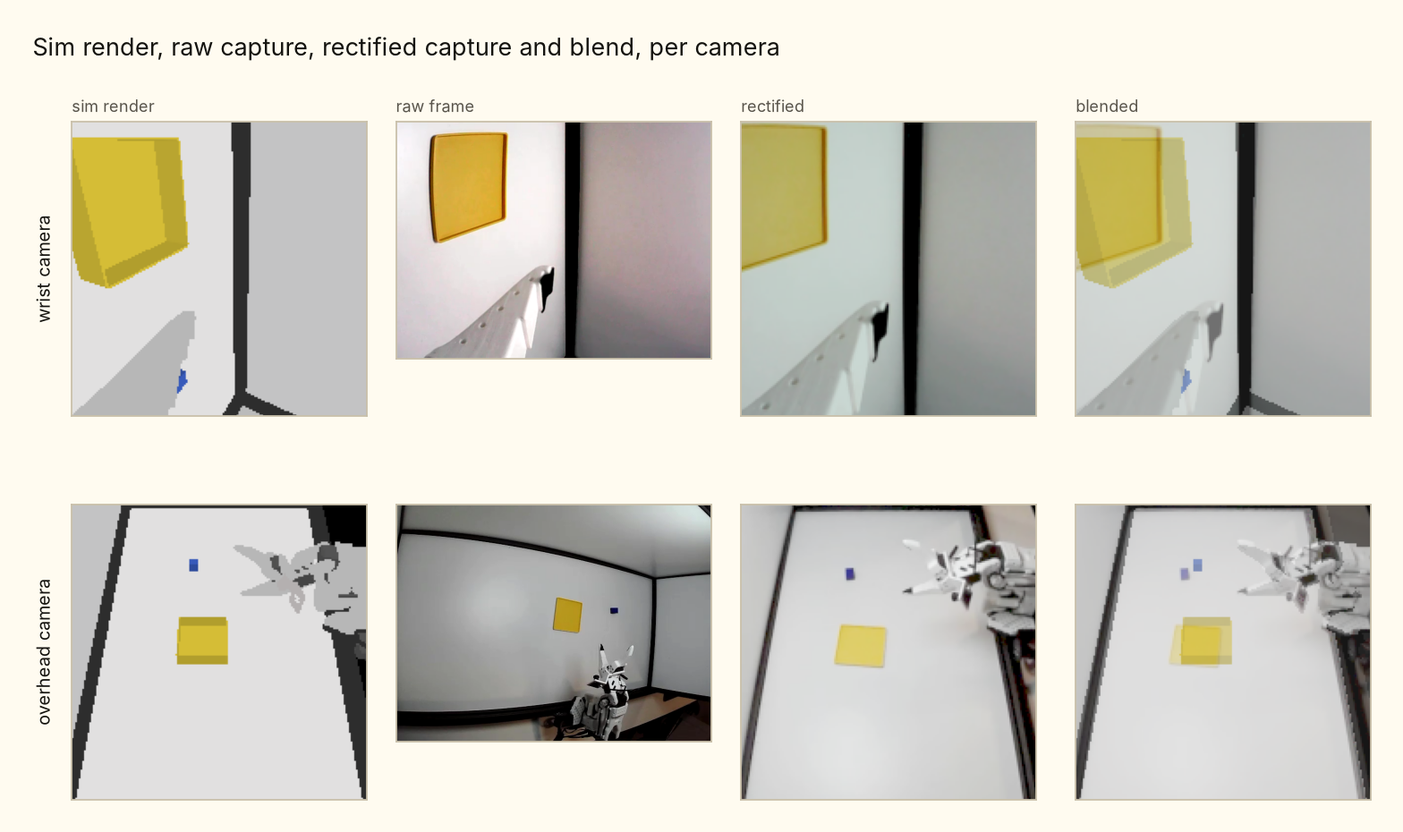
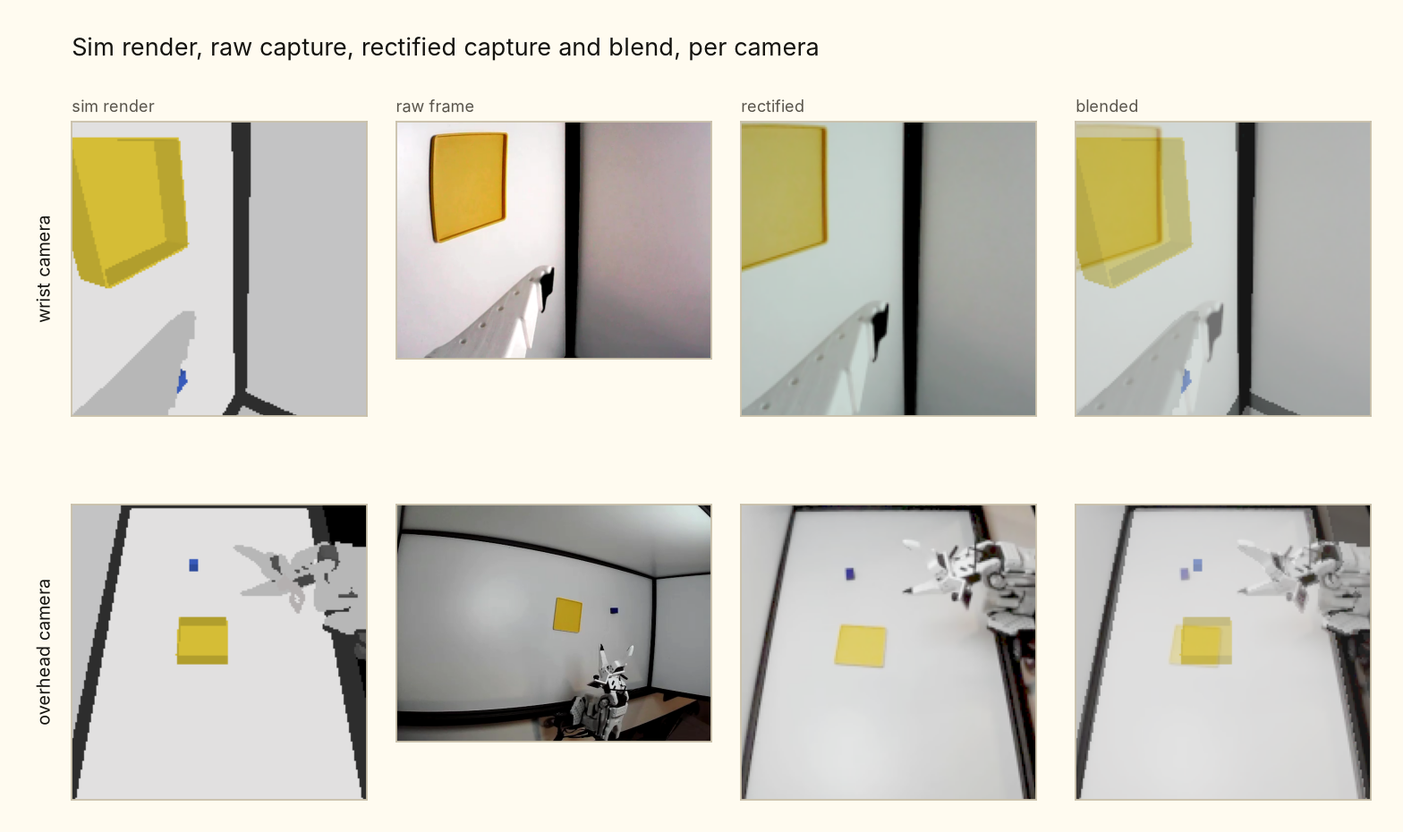
blog: reward stages as a table, wrist-camera DINOv2 figure, single-panel fig1
Reward section now enumerates the five stages with their condition and value, states the
predicates it reads, and says the return is the normalized discounted sum rather than a score for
finishing. Spells out d against e, since "released over the bin" and "success" are easy to conflate
and only the second requires the cube to have landed.

fig8 is fig7 for the wrist camera, through the same code path (fig7.main takes the camera). Its own
figure rather than a third row: the overhead view shows the backbone agreeing about a scene, the
wrist view shows it agreeing about the tool.

fig1 loses its second panel. The five zero-success runs are a different claim, and five flat lines
at zero are weaker than the sentence that states it.

Titles align to the leftmost panel's left edge rather than the leftmost ink, so they line up with
the picture instead of the y-axis label.

Changed region(s): [[0.0312, 0.0312, 0.5938, 0.0935]]

diff --git a/blog-viz/fig1_encoder_curves.py b/blog-viz/fig1_encoder_curves.py
@@ -1,9 +1,11 @@
-"""The headline result: what the vision encoder is worth, and what the recipe was worth.
+"""What the vision encoder is worth: four of them under one recipe, 12M steps each.
 
-Left panel, the four encoders under the current recipe, all 12M steps, same task, same reward,
-same replay retention. Right panel, the same squint CNN before the reward ladder gained its
-jaw-closing ramp and the horizon came down to 200 steps: four runs, three of them separate seeds,
-none of which ever placed the cube.
+Same task, same reward, same replay retention, same step budget, so the only thing varying is
+what the policy is handed instead of pixels.
+
+The squint CNN's five zero-success runs under the previous recipe used to be a second panel here.
+Dropped: that is a different claim, and five flat lines at zero is weaker evidence than the one
+sentence of prose that states it.
 
 Reads raw/wandb_runs.json (see fetch_runs.py). Needs no simulator.
 """
@@ -31,7 +33,6 @@ CURRENT = (
     ("v5-dino-global-cls", "dino_global_cls", "dino_global (cls)"),
     ("v4-squint", "squint", "squint CNN"),
 )
-PREVIOUS = ("v1-squint", "v2-squint-s1", "v2-squint-s2", "v2-squint-s3", "v3-squint")
 
 
 def series(name):
@@ -49,12 +50,10 @@ def rolling(y, n=SMOOTH):
 
 def main():
     style.apply()
-    fig = plt.figure(figsize=(12.6, 4.8))
-    left, right = 0.075, 0.985
-    gs = fig.add_gridspec(1, 2, width_ratios=[1.55, 1.0], wspace=0.16,
-                          left=left, right=right, bottom=0.15,
-                          top=0.97)
-    ax_a, ax_b = fig.add_subplot(gs[0]), fig.add_subplot(gs[1])
+    fig = plt.figure(figsize=(9.6, 5.0))
+    left, right = 0.085, 0.985
+    gs = fig.add_gridspec(1, 1, left=left, right=right, bottom=0.14, top=0.97)
+    ax_a = fig.add_subplot(gs[0])
 
     # ---- Panel A: the four encoders, current recipe --------------------------------------
     ends = []
@@ -88,29 +87,14 @@ def main():
         ax_a.text(xe + 0.28, y, label, color=color, fontsize=style.T_TICK,
                   va="center", ha="left")
 
-    # ---- Panel B: the CNN either side of the recipe change --------------------------------
-    for run in PREVIOUS:
-        x, y = series(run)
-        ax_b.plot(x, y, color=style.MUTED, lw=1.8, alpha=0.6, zorder=2)
-    x, y = series("v4-squint")
-    ax_b.plot(x, rolling(y), color=style.ENCODER_COLOR["squint"], lw=2.0, zorder=3,
-              path_effects=style.RELIEF[style.GOLD])
-    ax_b.text(12.2, rolling(y)[-1], "after", color=style.GOLD, fontsize=style.T_TICK,
-              va="center", ha="left")
-    ax_b.text(9.2, 0.045, "5 runs, previous recipe", color=style.MUTED,
-              fontsize=style.T_TICK, ha="center", va="bottom")
-
-    for ax, xmax in ((ax_a, 15.0), (ax_b, 14.2)):
-        style.clean_axes(ax)
-        ax.set_xlim(-0.3, xmax)
-        ax.set_ylim(-0.03, 1.06)
-        ax.set_xticks([0, 3, 6, 9, 12])
-        ax.set_xlabel("environment steps (millions)")
+    style.clean_axes(ax_a)
+    ax_a.set_xlim(-0.3, 15.6)
+    ax_a.set_ylim(-0.03, 1.06)
+    ax_a.set_xticks([0, 3, 6, 9, 12])
+    ax_a.set_xlabel("environment steps (millions)")
     ax_a.set_ylabel("success rate")
     ax_a.set_yticks([0, 0.25, 0.5, 0.75, 1.0])
     ax_a.set_yticklabels(["0", "0.25", "0.50", "0.75", "1.00"])
-    ax_b.set_yticks([0, 0.25, 0.5, 0.75, 1.0])
-    ax_b.set_yticklabels([])
 
     style.place_title(fig, "Evaluation success rate vs environment steps, by vision encoder")
     return fig

diff --git a/blog-viz/fig7_dino_features.py b/blog-viz/fig7_dino_features.py
@@ -11,6 +11,7 @@ robot.
 
     uv run --project ../rl/calibrate python fig7_dino_features.py
 
+`main` takes the real camera track, so fig8 renders the wrist view through this same code.
 Pulls the backbone from torch.hub on first use, so the first run needs network.
 """
 from __future__ import annotations
@@ -36,7 +37,7 @@ def tokens(rgb, torch):
     return tok[0, : GRID * GRID].float().numpy()
 
 
-def main():
+def main(real_cam="overhead_camera", title=None):
     import torch
 
     ref = sc.reference()
@@ -56,10 +57,12 @@ def main():
     if len(found) == 2:
         sc.place_objects(u, found["blue"], found["yellow"])
         sc.set_qpos(u, ref["sim_qpos"])
-    over_sim = sc.sim_views(u)["overhead_camera"]
+    views = sc.sim_views(u)
+    sim = views[sc.REAL_TO_SIM_CAM[real_cam]]
+    real = sc.rectify_real(real_cam, RES, maps=maps)
     env.close()
 
-    t_sim, t_real = tokens(over_sim, torch), tokens(over_real, torch)
+    t_sim, t_real = tokens(sim, torch), tokens(real, torch)
 
     # One PCA over both, each frame mean-centred first so the constant sim-vs-real offset does not
     # eat the leading component. What is left is structure the two share, or do not.
@@ -85,7 +88,7 @@ def main():
                           top=0.97)
 
 
-    rows = [("simulation", over_sim, pca_sim), ("real, rectified", over_real, pca_real)]
+    rows = [("simulation", sim, pca_sim), ("real, rectified", real, pca_real)]
     for r, (label, img, pca) in enumerate(rows):
         ax = fig.add_subplot(gs[r, 0])
         ax.imshow(img)
@@ -112,7 +115,8 @@ def main():
         if r == 0:
             style.panel_title(ax, "mean-pooled to one vector", color=style.INK)
 
-    style.place_title(fig, "DINOv2 patch tokens for sim and real frames, shared PCA projection")
+    style.place_title(fig, title or
+                      f"DINOv2 patch tokens, {sc.CAMERA_TITLE[real_cam]}, shared PCA projection")
     return fig
 
 

diff --git a/blog-viz/style.py b/blog-viz/style.py
@@ -153,12 +153,17 @@ def _ink_bounds(fig, artists=None):
 
 
 def place_title(fig, text, *, gap_in=0.30):
-    """Put the title above everything, flush with the leftmost ink on the page.
+    """Put the title above everything, flush with the left edge of the leftmost panel.
+
+    Aligned to the panel BOX, not to the leftmost ink: the y-axis label and tick labels stick out
+    further left, and hanging the title off those leaves it floating clear of the picture it
+    belongs to. The panel edge is the line the eye actually reads as the figure's left edge.
 
     Call it LAST, once every axes and label exists. Regular weight: at this size on a cream page
     the title already reads as the title, and bold makes it shout over the figure it introduces.
     """
-    x0, _, y1 = _ink_bounds(fig)
+    _, _, y1 = _ink_bounds(fig)
+    x0 = min(ax.get_position().x0 for ax in fig.axes)
     fig.text(x0, y1 + gap_in / fig.get_figheight(), text,
              ha="left", va="bottom", fontsize=T_TITLE, color=INK)
 

diff --git a/blog-viz/fig8_dino_features_wrist.py b/blog-viz/fig8_dino_features_wrist.py
@@ -1,0 +1,15 @@
+"""fig7 for the wrist camera, through the same code path.
+
+Its own figure rather than a third row on fig7, because the two are different evidence. The
+overhead view shows the backbone agreeing about a scene; the wrist view is almost entirely
+gripper, so it shows the backbone agreeing about the tool, which is what the grasp depends on.
+
+    uv run --project ../rl/calibrate python fig8_dino_features_wrist.py
+"""
+from __future__ import annotations
+
+import fig7_dino_features as fig7
+import sim_common as sc
+
+if __name__ == "__main__":
+    sc.save(fig7.main("arm_camera"), "fig8_dino_features_wrist.png")

diff --git a/draft.md b/draft.md
@@ -62,7 +62,7 @@ $\phi$ is the encoder's preprocessing, and the choice of it is most of this arti
 
 $\tilde{\mathbf{q}}_t$ is the 7 measured joint positions, $\mathcal{N}(0, \sigma_q^2)$ with $\sigma_q = 5°$ per joint to model real encoders.
 
-$\mathbf{q}^{\text{tgt}}_t$ is the running controller target, and it is why proprio is 14 and not 7. the controller is positional and the arm lags it, so $\tilde{\mathbf{q}}_t$ alone is ambiguous: identical poses under different targets evolve differently, and the process is not Markov in the measurement. deploy integrates the same target, so the semantics transfer exactly.
+$\mathbf{q}^{\text{tgt}}_t$ is the running controller target. the controller is positional, but command actions are not instantaneous, so $\tilde{\mathbf{q}}_t$ alone is ambiguous, so we need to model control delay as well, especially since our action space is delta.
 
 that layout is a contract, not a convention. the 14 fields and their order are measured off the live training env and written into the checkpoint, so deploy assembles its vector from that record instead of assuming a width.
 
@@ -76,61 +76,73 @@ note that a delta per control period is a velocity. that matters later.
 
 ### the reward
 
-the reward is a monotonic staircase. each stage is a fixed rung plus a bounded amount of shaping, and every stage's maximum sits below the next stage's floor, so a higher stage overrides the lower one instead of adding to it.
+the reward is a staircase over five mutually exclusive stages. each stage has a fixed rung, plus at most a bounded amount of shaping on top, and the rungs are spaced so that a stage's maximum still sits below the next stage's rung, which means a higher stage always overrides the one below it instead of adding to it.
 
-$$\text{reach } [0, 1.5] \;<\; \text{grasped } [2, 3] \;<\; \text{holding } [4, 5] \;<\; \text{released } 6 \;<\; \text{success } 10$$
+first the predicates, all read off the sim state:
+
+- $\mathrm{G}$: the cube is grasped, both jaws in contact and closing on it
+- $\mathrm{B}$: the cube is horizontally inside the bin's 96 mm opening, $|p^{x}_{\text{item}} - p^{x}_{\text{bin}}| < 0.048$ and likewise in $y$
+- $\mathrm{T}$: the robot is touching the cube
+- $\mathrm{I}$: the cube is *in* the bin, $\mathrm{B}$ and its lowest corner within 5 mm of the bin floor
+- $\Sigma = \mathrm{I} \wedge \|\dot p_{\text{item}}\| \le 0.02 \wedge \neg\mathrm{T} \wedge \text{robot static} \wedge \neg\text{touching the bin}$
+
+and the distances: $d_{xy}$ and $d_z$ from the tool centre to the cube, $d_g = \|g - p_{\text{item}}\|$ from the cube to the drop point $g$, and $o \in [0,1]$ for how far the jaw is open.
+
+| stage | condition | reward |
+| --- | --- | --- |
+| a. reach | otherwise | $r_{\text{reach}} \in [0, 1.5]$ |
+| b. grasped | $\mathrm{G} \wedge \neg\mathrm{B}$ | $2 + \big(1 - \tanh(5 d_g)\big) \in [2, 3]$ |
+| c. holding over the bin | $\mathrm{B} \wedge \mathrm{T}$ | $4 + o \in [4, 5]$ |
+| d. released over the bin | $\mathrm{B} \wedge \neg\mathrm{T}$ | $6$ |
+| e. success | $\Sigma$ | $10$ |
+
+$$r_{\text{reach}} = \underbrace{0.5\big(1 - \tanh(5\,d_{xy})\big)}_{\text{align over the cube}} \;+\; \mathbb{1}[\,d_{xy} < 0.03\,]\underbrace{0.5\big(1 - \tanh(5\,d_z)\big)}_{\text{then descend}} \;+\; \mathbb{1}[\,d_{xy} < 0.03 \,\wedge\, d_z < 0.02\,]\underbrace{0.5\,(1 - o)}_{\text{then close}}$$
+
+the per-step reward is normalized by the maximum, $\hat r_t = r_t / 10$, and what the policy maximizes is the discounted sum over the episode, $\sum_t \gamma^t \hat r_t$ at $\gamma = 0.9$. so the ladder is a rate, not a score for finishing: more steps spent on a higher rung is worth more.
 
 ![the reward ladder](blog-viz/out/fig2_reward_ladder.png)
 
-the ordering does the work that a pile of bonuses and hover taxes used to do badly. "let go of the cube, don't just hold it over the bin" is encoded once, by $5 < 6$: holding is a plateau you can only beat by releasing. and because the ladder is monotonic, regression handles itself, since dropping the cube falls to a lower rung on its own.
+d and e are easy to conflate. d fires the instant the jaw stops touching a cube that is over the opening, and says nothing about where that cube ends up: it can still be in the air, it can catch the rim and bounce out, and the arm can be leaning on the bin throughout. e needs the outcome, cube down on the floor and slow, arm stopped, robot touching neither. d is the decision to let go, e is that decision having worked, which is why d is flat: nothing left to shape, the only way up is for the throw to land.
 
-the shaping inside the stages:
+the ordering replaces a pile of bonuses and hover taxes. "let go, don't hover" is $5 < 6$, and regression handles itself, since dropping the cube falls to a lower rung with no penalty needed.
 
-$$r_{\text{reach}} = \underbrace{0.5\big(1 - \tanh(5\,d_{xy})\big)}_{\text{align over the cube}} + \mathbb{1}[\,d_{xy} < 0.03\,]\underbrace{0.5\big(1 - \tanh(5\,d_z)\big)}_{\text{then descend}} + \mathbb{1}[\text{on it}]\underbrace{0.5\,(1 - o_{\text{grip}})}_{\text{then close}}$$
+the two jaw terms are mirror images and took longest to get right. opening pays in c, so a jaw opening over the bin climbs toward d instead of leaping a plateau; closing pays at the top of a, but only with the tool on the cube in both axes. both are capped below the next rung, so a jaw shutting on nothing loses to a grasp, and the most open still-holding pose loses to a release. an earlier version made the gripper binary to force a clean release, which was treating a reward problem as an action-space problem.
 
-$$r_{\text{carry}} = 1 - \tanh(5\,\|g - p_{\text{item}}\|), \qquad r_{\text{hold}} = o_{\text{grip}}$$
+no penalty terms anywhere: speed is capped by the action space and torque by the servos' stall.
 
-reaching is deliberately top-down. it always pays for closing the horizontal gap, but the vertical term only switches on once the tool is within 3 cm horizontally, so the policy learns to get over the cube and drop onto it. scooping in from the side wrecked the grasp on the real rig.
-
-the two jaw terms are mirror images and they took the longest to get right. opening pays inside the holding stage, so a jaw opening over the bin climbs continuously toward the released rung instead of leaping off a plateau. closing pays at the top of reaching, but only while the tool is genuinely on the cube. each is capped below the next rung, so a jaw shutting on nothing is still worth less than a real grasp. an earlier version of this made the gripper binary to force a clean release, which was treating a reward problem as an action-space problem. with both ramps in place the policy commits on its own and the hack came out.
-
-there are no penalty terms. every limit that used to be one is structural now: speed is capped by the action space and torque by the servos' stall value.
-
-one last piece. carrying aims 5 cm above the bin rim, not at the floor. the opening is 96 mm and the jaw cannot swing open at depth inside it, so a policy shaped to insert deep becomes physically unable to let go. aiming high lets the jaw open, gives the arm margin to clear the wall, and lets gravity finish.
+the drop point $g$ sits 5 cm above the rim rather than on the floor. the opening is 96 mm and the jaw cannot swing open at depth inside it, so shaping toward a deep insert teaches the policy into being unable to let go. aiming high leaves the last few centimetres to gravity.
 
 # matching sim2real
 
-a policy trained in one simulator learns that simulator: its lighting, its frictions, its camera pose. reality is then a distribution shift and the policy shatters.
+a policy trained inside one simulator ends up learning that simulator, its exact lighting and its exact frictions and its exact camera pose, so the moment i drop it onto the real rig all of those are slightly wrong at once and it falls apart.
 
-two things close it. align the real rig to sim, so the training distribution is centred where the robot actually is. randomize what varies between runs, so the policy never leans on any single draw.
+there are two halves to closing that gap and i find it worth keeping them apart in my head. the first is alignment, where i make the simulator agree with the one real rig i actually own, so that the distribution the policy trains in is centred on the robot it will end up driving. the second is randomization, where i vary everything that changes from one run of that rig to the next, so the policy never comes to depend on any single draw of it.
 
 ## real alignment to sim
 
-camera calibration is easy on so-frame. the camera poses are in the URDF and the rig is standardized, so sim already renders from where the real camera is bolted. what is left is the lens.
+calibrating the cameras turned out to be the easy half, which honestly surprised me. because the camera holders are part of the so-frame URDF, the simulated camera already sits exactly where the real one is bolted and its pose falls out of forward kinematics, so i never had to measure an offset or fit a pose by hand. the only thing left standing between the two views is the lens.
 
-the real modules are 120° wide-angle with barrel distortion; sim renders a pinhole. rather than teach the renderer to fake a cheap lens, we rectify reality into sim's geometry: undistort with a $k_1/k_2$ plus focal model, rotate (the overhead camera is mounted sideways), zoom and crop to sim's field of view, then correct colour with a per-channel gain and a gamma.
+that lens is a cheap 120° wide-angle module with real barrel distortion, while the simulator renders a clean pinhole, and the two end up seeing quite different fractions of the same scene. rather than teach the renderer to imitate a cheap lens i went the other way and rectified reality into the simulator's geometry, which is really just undistorting with a $k_1/k_2$ plus focal model, rotating (the overhead camera is mounted sideways), zooming and cropping down to the field of view sim renders, and then correcting the colour with a per-channel gain and a gamma.
 
 <!-- IMG: screenshot of the calibration tool mid-fit. -->
 
 > _tool screenshot pending._
 
-the parameters come from a tool that drives the arm and renders the sim cameras live next to the rectified real feed, with a blend slider between them. it writes the same mapping file the deploy loop replays, so the frame the policy trained on and the frame it sees on the robot are formed by an identical transform. driving the arm while fitting is required rather than convenient: the wrist camera sees almost nothing but jaws, so a fit checked at one pose says nothing about the rest.
+i fit those parameters in a tool that drives the arm while rendering the sim cameras live beside the rectified real feed, with a blend slider between them so i can watch the two converge as i turn each knob, and it writes out the same mapping file the deploy loop later replays, which means the frame the policy trains on and the frame it sees on the robot are formed by an identical transform. driving the arm while fitting is the part i would not skip, because the wrist camera sees almost nothing except its own jaws, and a fit that looks perfect at one pose can be badly wrong at the next.
 
 ![rectifying reality into the simulator](blog-viz/out/fig3_calibration.png)
 
-the figure is a check, not a claim. sim is rendered at the joint pose the real frames were captured at, and the cube and bin are stood where the rectified real frame says they are, un-projected onto the work surface. everything landing on top of everything is what says the mapping holds. it also shows the loose end: the overhead FOV was fitted against the rig, the wrist's is inherited from the MJCF twin, so its objects sit a little large.
+i treat that figure as a check rather than a claim, so sim is rendered at the exact joint pose the real frames were captured at, and the cube and bin are stood wherever the rectified real frame says they are, recovered by un-projecting them back onto the work surface. the arm and the objects and the frame extrusions all landing on top of each other is what tells me the mapping holds, and it also shows me the one loose end i have left: the overhead camera's field of view was fitted against the rig while the wrist's is still inherited from the MJCF twin, which is why its objects sit slightly too large.
 
-**colours and lighting.** sim's linear base colours are picked to land on the real ones under sim's own lighting. nothing is pure black or pure white: a pure black object returns no light and renders as a flat silhouette, a pure white one clips under the softbox. the shadow-casting key light is off, since the real lightbox produces no directional shadow at all, only contact darkening at an object's base. a cast shadow in sim was an artifact for the policy to key on.
+**colours and lighting.** the linear base colours in sim are picked so they land on the real ones under sim's own lighting, and nothing in the scene is ever pure black or pure white, since a pure black object returns no light and renders as a flat silhouette with no shape left in it while a pure white one clips under the softbox and loses its edges the same way. the shadow-casting key light is switched off entirely, because the real lightbox throws no directional shadow at all, only a little contact darkening at the base of an object, and a cast shadow in sim is just one more artifact for the policy to key on.
 
-**speed.** the STS3215 servos are slow, especially on the rail. a policy trained to command motion the hardware cannot track winds its target ahead of the arm, which overshoots and oscillates. so we measured: drive each joint to its limit and read the achieved speed off the observation stream. the arm manages 29 to 34 deg/s, the rail about 7 cm/s. sim's per-step deltas come straight from those, 0.05 rad and 7 mm at 10 hz.
+**speed.** the STS3215 servos are slow, the rail especially, and a policy trained to command motion the hardware cannot actually track will wind its target up ahead of the arm until the arm overshoots and starts oscillating. so i measured what the real thing does, driving each joint to its limit and reading the achieved speed straight off the observation stream, which came out at 29 to 34 deg/s on the arm and about 7 cm/s on the rail, and sim's per-step deltas come from exactly those numbers, 0.05 rad and 7 mm per step at 10 hz. worth saying that speed is enforced by the action space rather than by torque, since 3 N·m against the servo's damping would reach something like 280 deg/s, an order of magnitude past anything the real arm does.
 
-speed is enforced by the action space, not by torque. 3 N·m against the servo's damping reaches around 280 deg/s, an order of magnitude past the real arm.
-
-**torque.** 3 N·m is where the servos stall, so that is the force limit in sim. an over-powered sim arm muscles through imprecise grasps and leans on the work surface, neither of which transfers. at the real stall torque the top-down grasp gets easier: a weak arm settles onto the cube instead of slamming into it.
+**torque.** 3 N·m is where those servos stall, so that is what each joint's force limit is set to in sim. an over-powered sim arm learns to muscle its way through an imprecise grasp and to lean on the work surface, and neither of those transfers, because the real servo simply stalls instead. at the real stall torque the low top-down grasp actually gets easier, since a weak arm settles onto the cube rather than slamming into it and bouncing off.
 
 ## domain randomize
 
-everything above centres the distribution. randomization gives it width, so that reality is one more sample from it rather than a point outside it.
+alignment centres the distribution and randomization is what gives it width, so that reality reads as one more sample out of it rather than a point sitting outside it.
 
 ![domain randomization draws](blog-viz/out/fig6_domain_randomization.png)
 
@@ -145,9 +157,9 @@ everything above centres the distribution. randomization gives it width, so that
 | colour jitter       | brightness/contrast/saturation 0.3, hue 0.05, per camera               |
 | sensor realism      | gamma 0.7 to 1.4, ±10% white balance, noise, blur, a compression proxy |
 
-camera pose and FOV are drawn when the scene is built rather than every episode, since they are properties of a rig and not of a moment.
+camera pose and FOV are drawn once when the scene is built rather than every episode, since those are properties of a rig and not of a moment.
 
-object colour is deliberately not randomized. it costs sample efficiency, and there is exactly one real rig whose cube and bin are a known blue and yellow. so we match instead, and the policy gets colour as a reliable cue. how heavily an encoder leans on that cue turns out to matter enormously.
+the one thing i deliberately leave alone is the colour of the task objects. randomizing it costs real sample efficiency, and there is exactly one physical rig whose cube and bin are a known blue and a known yellow, so i match them instead and let the policy treat colour as a cue it can rely on. how heavily a given encoder ends up leaning on that cue turns out to matter enormously, which is where the rest of this article goes.
 
 # improving upon prior work
 
@@ -188,6 +200,10 @@ it stays frozen on purpose. fine-tuning it on sim renders would just re-teach it
 the middle column is the reason to bother. the same frozen backbone on a sim render and on a rectified real frame, both painted by a single shared PCA so the colours are comparable rather than each image being flattered by its own projection. the surface, the arm and the frame edges take the same colours in both worlds, and we did not have to train for it.
 
 the mistake to avoid is treating DINOv2 like a CNN, flattening its output into one vector and moving on. it does not hand you a feature image, it hands you tokens. at 168 px, twelve of its 14-pixel patches a side, each camera is a 12×12 grid of 384-dim patch tokens, 288 for the pair. so the head consumes tokens: both grids go in jointly with a learned per-camera embedding, self-attention runs over the sequence, and a learned readout token collects the answer. this follows the [Patch Policy](#) recipe, whose claim is exactly that dense representations are what embodied control needs.
+
+![dinov2 features, wrist camera](blog-viz/out/fig8_dino_features_wrist.png)
+
+the wrist view is worth its own figure because it is a different kind of evidence. the overhead camera shows the backbone agreeing about a scene, while the wrist camera sees almost nothing except its own gripper, so it shows the backbone agreeing about the tool, which is what the grasp actually depends on.
 
 that is testable rather than believable, so i built the control. `dino_global` is the same frozen backbone at the same resolution with the same head width and update ratio, differing in one thing: the patch grid is collapsed to one vector per camera before the head sees it, either the CLS token or the mean over patches. 288 tokens against 2.
 
@@ -252,9 +268,9 @@ flowchart TD
 
 the bridge itself is thin, so the network's tensors never leave sim space: radians to degrees for the arm, metres to a normalized 0-to-100 position for the rail. one joint, `wrist_roll`, carries a measured 90° offset because its calibrated zero is not the URDF zero. everything else is identity, checked against a live arm rather than assumed.
 
-now, back to that sentence about actions being velocities. sim integrates one every step, so deploy has to keep applying an action every tick until a new one replaces it. the first version applied each action once and froze the target, and the arm stalled between decisions.
+back to actions being velocities. sim integrates one every step, so deploy keeps applying an action every tick until a new one replaces it.
 
-the mirror problem is that the sim arm reaches its target within a step and the real arm lags. if the target keeps advancing while the arm is behind, it winds up, and by the time the jaw closes the arm has sailed past the cube. the fix is a lag budget: the target only advances while every gated joint is within a few action steps of its measured pose, and the same threshold gates the next decision. it is a velocity-clamped ramp rather than a stopwatch, and it trades directly against speed.
+the real arm lags its target where the sim arm does not, so a target left to advance freely winds up, and the jaw closes after the arm has already gone past the cube. the fix is a lag budget: the target only advances while every gated joint is within a few action steps of its measured pose, and the same threshold gates the next decision. it trades directly against speed.
 
 | budget | decisions/s | rail speed | 0.49 m traverse |
 | ------ | ----------- | ---------- | --------------- |
@@ -275,17 +291,19 @@ with hindsight the explanation is in the squint figure. at 32 px the real cube i
 
 the dense grid keeps both, and it is the only one of the four with enough left over to absorb the difference between a render and a rectified photograph of a room.
 
-so the simulation number was not the thing to optimize. an encoder that reaches 0.71 in sim and zero on the robot is not eighty percent as good as one that reaches 0.88 and works.
-
 > _closer clip pending: a continuous real rollout, no human in the loop._
 
 # takeaway
 
 this is just a simple proof of concept (which is reliable and reproducible), it took me 1 week for the rl env and another to successfully adapt squint and more to the rl environment and to real life.
 
-the encoder turned out to be a sim2real decision rather than an accuracy decision. four learned the task, one transferred, and the sim success rate barely hinted at which. what mattered was whether the representation keeps _where things are_ or only _what is present_.
+some learnings as of now:
 
-and suspect the reward before the architecture. five runs and three seeds at exactly zero were not an encoder problem.
+- there is nothing i can do in sim to reliably compensate for how crap the sts3215 response is. it just sucks. i can throw a bunch of domain randomization at it, but for the love of god, i don't want to do it like that.
+- patch policy greatly improves policy performance. global mean and cls token cannot compare, in sim or in real. i spent a good amount of time trying to figure out a way there and then the paper dropped and i was like this is it.
+- visual is one thing, matching control behaviors and system delay is a whole other problem set, which i have not solved.
+
+so the simulation number was never the thing to optimize. an encoder that reaches 0.71 in sim and zero on the robot is not eighty percent as good as one that reaches 0.88 and works.
 
 rl is more than just picking and placing stuff. since this is visual and proprio only, the hardest problem is now engineering the reward function.
 

diff --git a/blog-viz/README.md b/blog-viz/README.md
@@ -73,7 +73,8 @@ jaw-closing ramp and the horizon came down to 200 steps.
 | 4 | what each encoder is handed | `fig4_what_the_encoder_sees.py` | sim |
 | 5 | the spawn zone, and episodes drawn from it | `fig5_spawn_zone.py` | sim |
 | 6 | domain-randomization draws | `fig6_domain_randomization.py` | sim |
-| 7 | DINOv2 features, sim vs real | `fig7_dino_features.py` | sim + reference + torch.hub |
+| 7 | DINOv2 features, overhead camera | `fig7_dino_features.py` | sim + reference + torch.hub |
+| 8 | DINOv2 features, wrist camera | `fig8_dino_features_wrist.py` | same, via `fig7.main("arm_camera")` |
 
 Still missing, because they need capture the repo cannot synthesize:
 
@@ -91,6 +92,11 @@ and coloured jenga blocks, on the previous task.
 
 `style.py` holds it: a warm cream page, one type scale, and a structural left rail that the title,
 subtitle, footnote and plotting area all hang from. Edit it to restyle every figure at once.
+
+Titles are placed by `place_title()`, which draws the figure, measures it, and hangs the title off
+the left edge of the leftmost panel at a fixed gap above the tallest thing on the page. Nothing
+about the title band is hand-tuned per figure, which is what used to put titles on top of panels.
+Regular weight throughout, no bold.
 
 Series colours are the validated four-slot categorical order (blue, orange, aqua, yellow), checked
 against this page colour rather than a generic white one: worst adjacent CVD ΔE 9.1, worst adjacent
